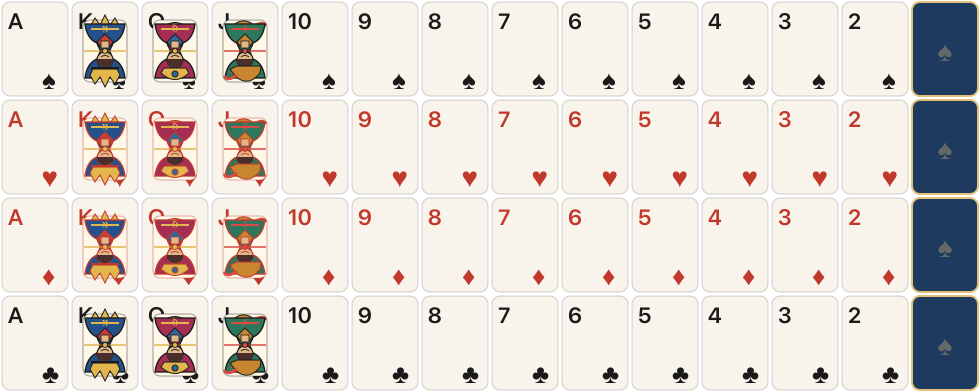
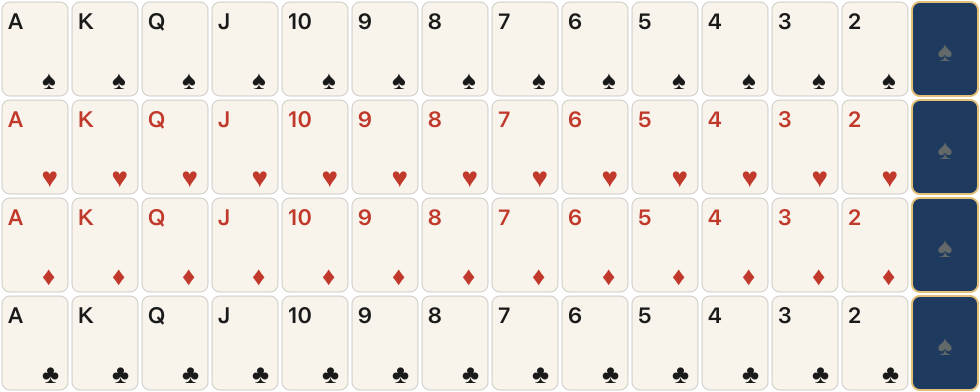
revert: remove court card preview artwork

diff --git a/test/ui-source.test.ts b/test/ui-source.test.ts
@@ -23,7 +23,7 @@ describe("client UI source (shipped public assets)", () => {
       assert.equal(existsSync(fileURLToPath(url(`../public/assets/${art}.png`))), true);
     }
     const artScript = read("../scripts/generate-art.mjs");
-    assert.match(artScript, /court/);
+    assert.doesNotMatch(artScript, /court/);
     assert.doesNotMatch(artScript, /#5082be/);
     assert.match(scene, /shownHoles/);
     assert.match(scene, /drawShowdown/);
